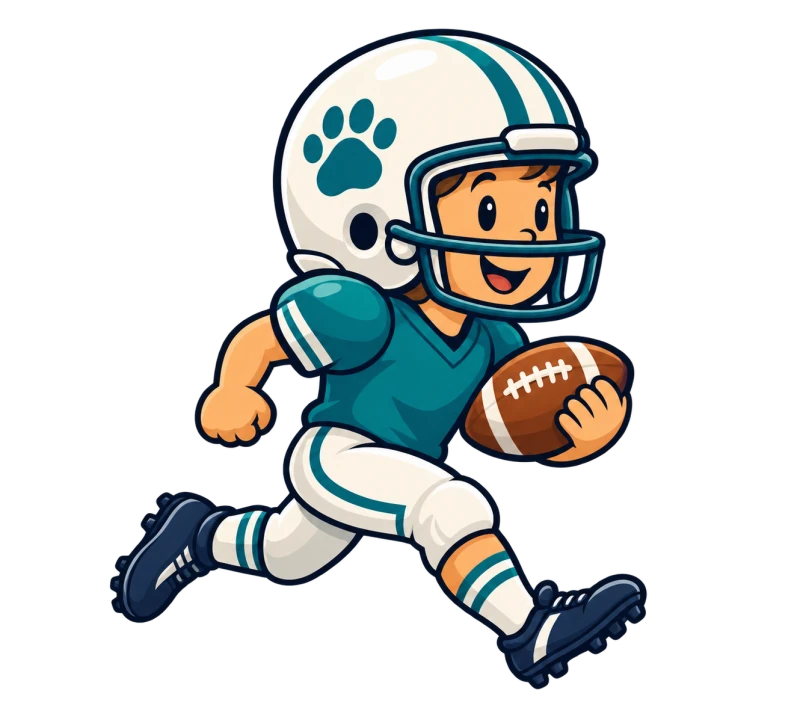
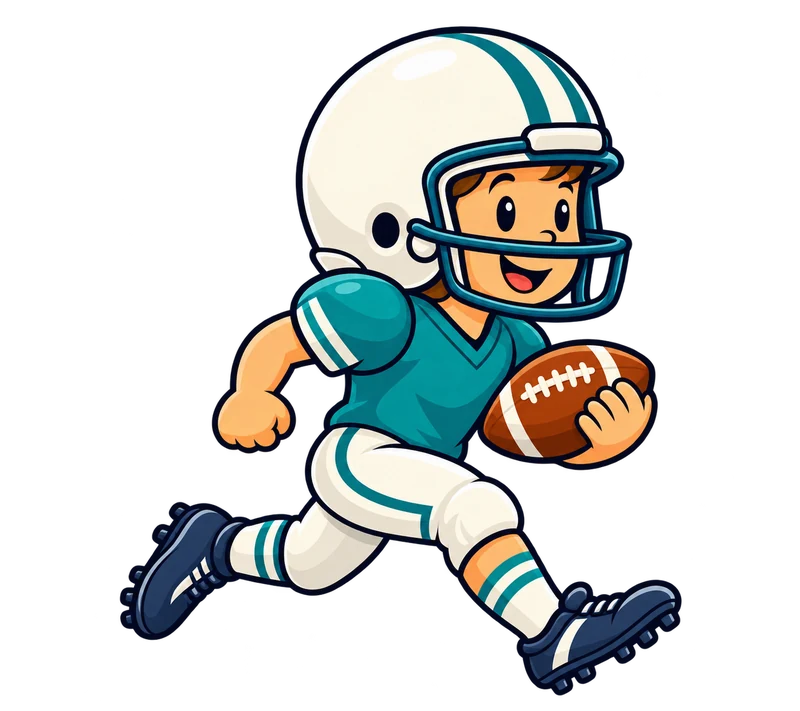
Refresh Football and math practice artwork (#184)

Changed region(s): [[0.125, 0.0309, 0.875, 0.9902]]

diff --git a/football/index.html b/football/index.html
@@ -4,14 +4,14 @@
 <meta charset="UTF-8">
 <meta name="viewport" content="width=device-width, initial-scale=1.0, user-scalable=no">
 <title>Football Math!</title>
-<link rel="apple-touch-icon" href="apple-touch-icon.png?v=1.34.13">
-<link rel="icon" type="image/png" href="apple-touch-icon.png?v=1.34.13">
+<link rel="apple-touch-icon" href="apple-touch-icon.png?v=1.34.14">
+<link rel="icon" type="image/png" href="apple-touch-icon.png?v=1.34.14">
 <link rel="preconnect" href="https://fonts.googleapis.com">
 <link rel="preconnect" href="https://fonts.gstatic.com" crossorigin>
 <link rel="stylesheet" href="https://fonts.googleapis.com/css2?family=Bebas+Neue&family=Barlow+Condensed:wght@600;700;800&display=swap">
-<link rel="stylesheet" href="../shared/fonts.css?v=1.34.13">
-<link rel="stylesheet" href="../shared/reset.css?v=1.34.13">
-<link rel="stylesheet" href="football.css?v=1.34.13">
+<link rel="stylesheet" href="../shared/fonts.css?v=1.34.14">
+<link rel="stylesheet" href="../shared/reset.css?v=1.34.14">
+<link rel="stylesheet" href="football.css?v=1.34.14">
 </head>
 <body>
 <div id="broadcast-shell">
@@ -406,21 +406,21 @@
   </div>
 </div>
 
-<link rel="stylesheet" href="../shared/curriculum.css?v=1.34.13">
-<script src="../shared/curriculum.js?v=1.34.13"></script>
-<script src="../shared/curriculum-ui.js?v=1.34.13"></script>
-<script src="copy.js?v=1.34.13"></script>
-<script src="learning.js?v=1.34.13"></script>
-<script src="stats.js?v=1.34.13"></script>
-<script src="opponent.js?v=1.34.13"></script>
-<script src="season.js?v=1.34.13"></script>
-<script src="football-domain.js?v=1.34.13"></script>
-<script src="contextual-questions.js?v=1.34.13"></script>
-<script src="time-lab.js?v=1.34.13"></script>
-<script src="football.js?v=1.34.13"></script>
+<link rel="stylesheet" href="../shared/curriculum.css?v=1.34.14">
+<script src="../shared/curriculum.js?v=1.34.14"></script>
+<script src="../shared/curriculum-ui.js?v=1.34.14"></script>
+<script src="copy.js?v=1.34.14"></script>
+<script src="learning.js?v=1.34.14"></script>
+<script src="stats.js?v=1.34.14"></script>
+<script src="opponent.js?v=1.34.14"></script>
+<script src="season.js?v=1.34.14"></script>
+<script src="football-domain.js?v=1.34.14"></script>
+<script src="contextual-questions.js?v=1.34.14"></script>
+<script src="time-lab.js?v=1.34.14"></script>
+<script src="football.js?v=1.34.14"></script>
 <script>
   document.getElementById('version-display').textContent = `v${GAME_VERSION}`;
 </script>
-<script src="../shared/updater.js?v=1.34.13"></script>
+<script src="../shared/updater.js?v=1.34.14"></script>
 </body>
 </html>

diff --git a/place-value-practice/index.html b/place-value-practice/index.html
@@ -1980,15 +1980,15 @@
     </form>
   </dialog>
 
-  <link rel="stylesheet" href="../shared/curriculum.css?v=1.9.0">
-  <script src="../shared/curriculum.js?v=1.9.0"></script>
-  <script src="../shared/curriculum-ui.js?v=1.9.0"></script>
-  <script src="arithmetic-domain.js?v=1.9.0"></script>
-  <script src="worked-explanation.js?v=1.9.0"></script>
+  <link rel="stylesheet" href="../shared/curriculum.css?v=1.9.1">
+  <script src="../shared/curriculum.js?v=1.9.1"></script>
+  <script src="../shared/curriculum-ui.js?v=1.9.1"></script>
+  <script src="arithmetic-domain.js?v=1.9.1"></script>
+  <script src="worked-explanation.js?v=1.9.1"></script>
   <script>
     "use strict";
 
-    const GAME_VERSION = "1.9.0";
+    const GAME_VERSION = "1.9.1";
     (() => {
       document.getElementById('game-version').textContent = `Version ${GAME_VERSION}`;
       const SCHEMA_VERSION = 1;
@@ -6738,14 +6738,14 @@
       if (window.__placePracticeMode === 'place-value') window.__placeValueActivate();
     })();
   </script>
-  <script src="fact-practice-domain.js?v=1.9.0"></script>
-  <script src="fact-practice.js?v=1.9.0"></script>
-  <link rel="stylesheet" href="practice-field.css?v=1.9.0">
-  <script src="practice-field.js?v=1.9.0"></script>
-  <link rel="stylesheet" href="book-practice.css?v=1.9.0">
-  <script src="book-practice-domain.js?v=1.9.0"></script>
-  <script src="book-practice.js?v=1.9.0"></script>
-  <script src="arithmetic.js?v=1.9.0"></script>
-  <script src="../shared/updater.js?v=1.9.0"></script>
+  <script src="fact-practice-domain.js?v=1.9.1"></script>
+  <script src="fact-practice.js?v=1.9.1"></script>
+  <link rel="stylesheet" href="practice-field.css?v=1.9.1">
+  <script src="practice-field.js?v=1.9.1"></script>
+  <link rel="stylesheet" href="book-practice.css?v=1.9.1">
+  <script src="book-practice-domain.js?v=1.9.1"></script>
+  <script src="book-practice.js?v=1.9.1"></script>
+  <script src="arithmetic.js?v=1.9.1"></script>
+  <script src="../shared/updater.js?v=1.9.1"></script>
 </body>
 </html>

diff --git a/place-value-practice/fact-practice.js b/place-value-practice/fact-practice.js
@@ -27,10 +27,10 @@
   const score=node('span');score.id='facts-score';driveHeader.append(driveTitle);
   const field=node('div',null,'facts-field');field.setAttribute('role','progressbar');field.setAttribute('aria-labelledby',driveTitle.id);
   field.setAttribute('aria-valuemin','0');field.setAttribute('aria-valuemax','100');
-  const scenery=node('img',null,'facts-stadium');scenery.src='assets/touchdown-stadium-v1.webp?v=1.7.0';scenery.alt='';scenery.width=2048;scenery.height=768;scenery.decoding='async';
+  const scenery=node('img',null,'facts-stadium');scenery.src='assets/touchdown-stadium-v1.webp?v=1.9.1';scenery.alt='';scenery.width=2048;scenery.height=768;scenery.decoding='async';
   const turf=node('div',null,'facts-turf');turf.setAttribute('aria-hidden','true');
   for(const mark of [0,25,50,75,100]){const line=node('span',String(mark),'facts-yard-line');line.style.left=`${mark}%`;turf.append(line);}
-  const ball=node('img',null,'facts-ball');ball.src='assets/touchdown-runner-v1.webp?v=1.7.0';ball.alt='';ball.decoding='async';turf.append(ball);field.append(turf);
+  const ball=node('img',null,'facts-ball');ball.src='assets/touchdown-runner-v1.webp?v=1.9.1';ball.alt='';ball.decoding='async';turf.append(ball);field.append(turf);
   const kickBall=node('span','🏈','facts-kick-ball');kickBall.setAttribute('aria-hidden','true');field.append(kickBall);
   const driveCaption=node('div',null,'facts-drive-caption'),yards=node('strong'),milestone=node('span'),award=node('span');yards.id='facts-yards';milestone.id='facts-milestone';award.id='facts-award';driveCaption.append(yards,milestone);
   driveHeader.append(driveCaption);

diff --git a/place-value-practice/practice-field.js b/place-value-practice/practice-field.js
@@ -2,7 +2,7 @@
 // Each caller keeps its own yards and points; this view only draws them. Number facts keeps its own scene.
 (() => {
   'use strict';
-  const ART='assets/touchdown-stadium-v1.webp?v=1.7.0',RUNNER='assets/touchdown-runner-v1.webp?v=1.7.0';
+  const ART='assets/touchdown-stadium-v1.webp?v=1.9.1',RUNNER='assets/touchdown-runner-v1.webp?v=1.9.1';
   const node=(tag,text,cls)=>{const el=document.createElement(tag);if(text)el.textContent=text;if(cls)el.className=cls;return el;};
   // Lazy art is not fetched while its practice panel is hidden, so Number facts still loads only its own two images.
   const art=(src,cls,width,height)=>{const img=node('img',null,cls);img.src=src;img.alt='';img.width=width;img.height=height;img.loading='lazy';img.decoding='async';return img;};

diff --git a/games.js b/games.js
@@ -7,7 +7,7 @@ const GAMES = [
     color: '#12285c',
     accent: '#ffd700',
     url: 'football/',
-    version: '1.34.13',
+    version: '1.34.14',
   },
   {
     id: 'kayak',
@@ -37,6 +37,6 @@ const GAMES = [
     color: '#315f7d',
     accent: '#d9e5ec',
     url: 'place-value-practice/',
-    version: '1.9.0',
+    version: '1.9.1',
   },
 ];

diff --git a/football/football.js b/football/football.js
@@ -1,4 +1,4 @@
-const GAME_VERSION = '1.34.13';
+const GAME_VERSION = '1.34.14';
 let prevPlayerScore = -1, prevOpponentScore = -1;
 let playerRunTimer = 0, playerCelebrateTimer = 0, playerCelebrateDelayTimer = 0;
 const EZ = 5;

diff --git a/place-value-practice/progress.md b/place-value-practice/progress.md
@@ -205,3 +205,16 @@ Original prompt: Enrich the released Place by Place game without touching other 
 ## 2026-10-06 — Integrated final verification
 
 Coordinating Codex reran the full Place release from the authoritative integrated candidate in Chromium and WebKit. Each passed 66 domain and 510 browser checks with 120 existing project skips. Exact registry base: `0fa6999777289ef580786cbf88437cbb9f952246`; target: `football`. Place stays at 1.9.0 and its production bytes are unchanged. Test and source hashes are retained externally; the earlier clone-based evidence is superseded by these integrated runs.
+
+## 2026-10-17 — Touchdown stadium and runner art, 1.9.1 (#52, superseding release entry)
+
+- Request: "Ok do 51 and release then 52 and release." #52 is scoped to Football and Place by Place imagery. The author is a new native Claude (Opus 5.5) session on exact base `a0fb736af7986721a9ad1bf64087806ddcc8832b` (Place 1.9.0). The author had no shell and ran nothing.
+- Art: both touchdown images are replaced in place under their existing file names. Number facts, Addition & subtraction and Book topics all use the same new pair.
+  - `touchdown-stadium-v1.webp` is the same daylight stadium, with its teal end zone and gold goalpost on the right. The bottom band where the page draws its 0/25/50/75/100 labels is now plain grass with no painted sideline or hash marks, so the labels are no longer crossed by white lines. The crowd is simpler and quieter behind the drive cards. It is still a 2048×768 RGB WebP, now 133,456 bytes (was 182,912).
+  - `touchdown-runner-v1.webp` is the same child running right with the ball, in teal and cream, with cleaner outlines and no paw mark on the helmet. It is still an 800×711 RGBA WebP with a real transparent background and about the same visible size, now 74,266 bytes (was 72,382).
+  - Together the two images are 207,722 bytes, under the existing 300,000-byte check.
+  - They were made with the built-in image tool from the author's briefs, using the old images as references. The exact image model version is not exposed and is not claimed. The brief, selection and metrics are recorded under `output/issue-52/`.
+- Unchanged: CSS, DOM attributes (the runner keeps its 800×700 attributes and the stadium 2048×768), `alt=""`, the progress bar, lazy loading, script order, yards, points, kicks, stores, curriculum, `shared/` and other games.
+- Metadata: `GAME_VERSION`, every Place `?v=` key, `games.js` and `version.json` advance to 1.9.1. Both image URLs in `practice-field.js` and both in `fact-practice.js` move from `?v=1.7.0` to `?v=1.9.1`. Football moves to 1.34.14 in the same release; Kayak and Prague are unchanged.
+- Tests: `tests/place-facts-ui.spec.mjs` changes only two expected literals, the image URL pattern (`1.7.0` to `1.9.1`) and `Version 1.9.1`. Every case, assertion, the two-image and 300,000-byte checks, retries and deadlines are unchanged.
+- Pending (recorded outside this file): the exact-base two-target registry gate; the full Place release in Chromium and in WebKit through the existing release config; before/after screenshots on all six viewports in both engines and all three lanes, including the 0- and 99-yard runner; a fresh independent review; and the PR, merge, Pages deployment and live checks. This entry claims none of them. Browser results are engine emulation, not Simulator or device proof.

diff --git a/football/progress.md b/football/progress.md
@@ -1927,3 +1927,45 @@ no shell and ran nothing.
 - This delivers the game-overlay portion of #51. Time Lab, the field and the
   decision surfaces are not redesigned here, so the broader issue stays open.
   #161 stays open.
+
+## 2026-10-17 — Football v1.34.14 (#52 home-screen icon, superseding release entry)
+
+Original request: "Ok do 51 and release then 52 and release." #52 is scoped to
+Football and Place by Place imagery only; Kayak and Prague are excluded. The
+author is a new native Claude (Opus 5.5) session, separate from both planning
+seats, working on exact base `a0fb736af7986721a9ad1bf64087806ddcc8832b`
+(Football 1.34.13). The author had no shell and ran nothing.
+
+- **Scope (one image):** `apple-touch-icon.png`, used as both the
+  `apple-touch-icon` and the PNG `icon`, is replaced with a generated icon.
+  - It fills the whole square in navy, with a brown football, cream laces and
+    stripes and a gold outline. It has no baked rounded tile or light margin,
+    so iOS masking no longer frames it twice.
+  - The ball is larger and clearer at 32 and 16 px than the old lime icon.
+  - It is still a 1024×1024 opaque RGB PNG, now 796,894 bytes (was 1,135,532).
+    It has no text, numbers or logos.
+  - It was made with the built-in image tool from the author's brief, with the
+    old icon as a reference. The exact image model version is not exposed and
+    is not claimed. The optional Grok consultation stayed incomplete because
+    its CLI was not authenticated. The brief, selection and metrics are
+    recorded under `output/issue-52/`.
+- **Unchanged:** the unlinked `apple-touch-icon.svg`; all CSS, DOM, copy and
+  JavaScript except `GAME_VERSION`; gameplay, RNG, storage, Season, learning,
+  stats, audio and curriculum; tests, runners and configs.
+- **Metadata:** `GAME_VERSION`, all 18 Football asset query strings (including
+  `../shared/`), the Football registry entry and `version.json` are 1.34.14.
+  Place by Place moves to 1.9.1 in the same release for its own #52 art. Kayak
+  1.1.38 and Prague 1.4.0 keep their exact base descriptors and versions.
+- **Pending (recorded outside this file):**
+  - the registry gate at the exact base with targets
+    `football,place-value-practice`;
+  - both unchanged Football release matrices;
+  - the 16/32/180 icon renditions in the product;
+  - a fresh independent review;
+  - the reviewed PR, merge, Pages deployment and live verification.
+
+  This entry claims none of them, and failures are retained. Browser results
+  are engine emulation. No installed-icon, iOS Simulator or physical-device
+  proof is claimed.
+- This delivers the Football part of #52. The issue stays open for the
+  excluded games and broader image scope. #161 stays open.
